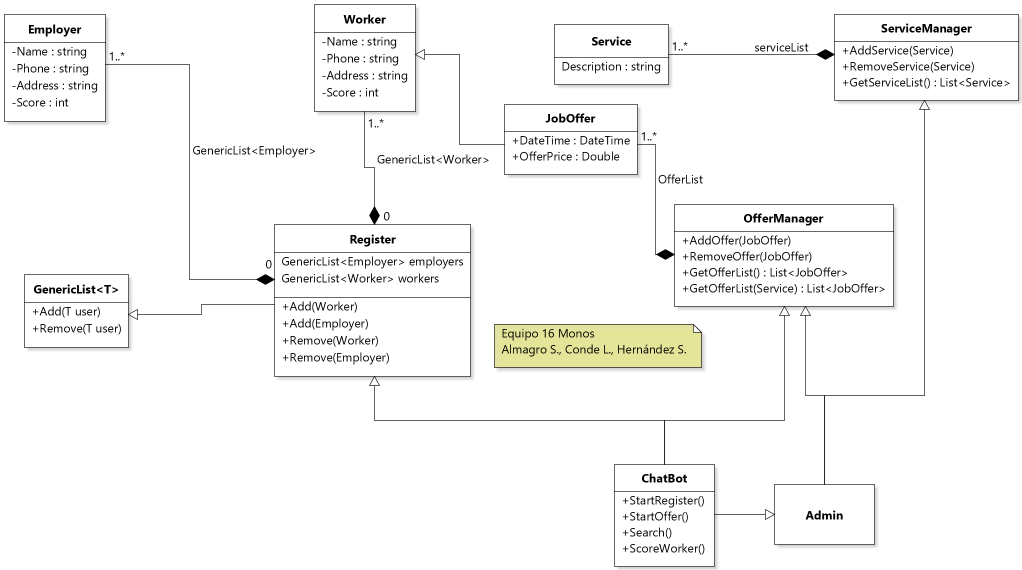
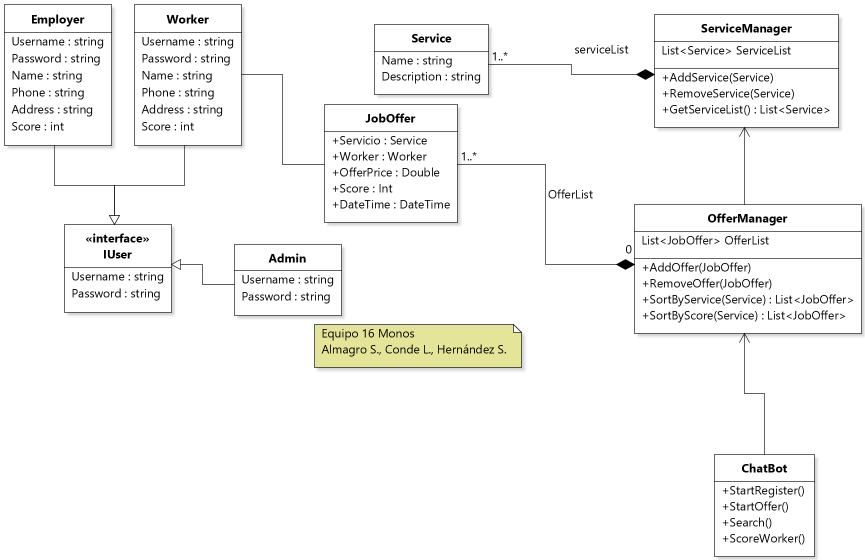
Translated to English

diff --git a/Library/Services/OfferManager.cs b/Library/Services/OfferManager.cs
@@ -1,31 +1,43 @@
 using System;
+using System.Collections;
 using System.Collections.Generic;
 using System.Linq;
+
 namespace Proyecto
 
 {
-    class OfferManager{
+    class OfferManager
+    {
+        private IList OfferList = new List<JobOffer>(); 
 
-        string Servicio {get; set;}
-        Worker Trabajador {get;}
-
-        Double Costos{get;}
-
-        
-        public static List<JobOffer> Sort_Score(ServiceManager lista){
-            List<JobOffer> x=lista.Lista;
-            List<JobOffer> sorted= x.OrderBy(x => x.Trabajador.Score).ToList();
-            return sorted;
+        public void AddOffer(JobOffer jobOffer)
+        {
+            this.OfferList.Add(jobOffer);
         }
-        public static List<JobOffer> Find(ServiceManager lista,string categoria){
-            List<JobOffer> w= new List<JobOffer>();
-            List<JobOffer> x=lista.Lista;
-            foreach (JobOffer i in x){
-                if (i.Servicio==categoria){
-                    w.Add(i);
+        public void RemoveOffer(JobOffer jobOffer)
+        {
+            this.OfferList.Remove(jobOffer);
+        }
+
+        public List<JobOffer> SortByService(Service service)
+        {
+            List<JobOffer> result = new List<JobOffer>();
+            foreach(JobOffer joboffer in OfferList)
+            {
+                if(joboffer.Equals(service))
+                {
+                    result.Add(joboffer);
                 }
             }
-            return(w);
+            return result;
+        }
+
+        public List<JobOffer> SortByScore(Service service)
+        {
+            List<JobOffer> result = new List<JobOffer>();
+            result = SortByService(service);
+            result = result.OrderBy(result => result.Score).ToList();
+            return result;
         }
     }
 }

diff --git a/Library/Services/ServiceManager.cs b/Library/Services/ServiceManager.cs
@@ -1,23 +1,28 @@
 using System;
-using System.Collections.Generic;
+using System.Collections;
 namespace Proyecto
 
 {
     class ServiceManager{
 
-        public List<JobOffer> Lista {get;}
-        
-        public ServiceManager(){
-            this.Lista= new List<JobOffer>();
+        private IList ServiceList = new List<Service>();
+
+        public void AddService(string name, string description)
+        {
+            this.ServiceList.Add(new Service(name, description));
         }
-        public void Add_Service(JobOffer joboffer){
-            this.Lista.Add(joboffer);
+        public void RemoveService(Service service)
+        {
+            this.ServiceList.Remove(service);
         }
-        public void Remove_Service(JobOffer joboffer){
-            if(this.Lista.Contains(joboffer)){
-            this.Lista.Remove(joboffer);
+        public IList GetServiceList()
+        {
+            IList result = new ArrayList();
+            foreach (Service service in this.ServiceList)
+            {
+                result.Add(service);
             }
-        
+            return result;
         }
     }
 }

diff --git a/Library/Services/JobOffer.cs b/Library/Services/JobOffer.cs
@@ -1,21 +1,25 @@
 using System;
 using System.Collections.Generic;
+using System.Collections;
 namespace Proyecto
 
 {
-    class JobOffer{
+    class JobOffer
+    {
 
-        public string Servicio {get; set;}
-        public Worker Trabajador {get;}
-
-        Double Costos{get;}
+        public Service Service {get; set;}
+        public Worker Worker {get;}
+        public Double OfferPrice{get;}
+        public int Score {get;}
+        private DateTime DateTime;
 
         
-        public JobOffer(string categoria, Worker trabajador, Double costos){
-            this.Servicio= categoria;            
-            this.Trabajador= trabajador;
-            this.Costos= costos;
-
+        public JobOffer(Service service, Worker worker, Double offerprice)
+        {
+            this.Service = service;            
+            this.Worker = worker;
+            this.OfferPrice = offerprice;
+            this.Score = worker.Score; //El score de la JobOffer va a ser igual al score del Worker que oferta
         }
         
     }

diff --git a/Library/Register/User.cs b/Library/Register/User.cs
@@ -4,12 +4,13 @@ using System.Diagnostics.CodeAnalysis;
 
 namespace Proyecto;
 
-public class Register : IEnumerable
+public class User : IEnumerable
 {
     /* Creo dos GenericList: uno para alojar a los Employer y otro para alojar a los Worker
         La idea es poder alojar ambos en la misma clase Register*/
-    private GenericList<Employer> employers = new GenericList<Employer>(); //ESTO ES UN ATRIBUTO PARA LA UML
-    private GenericList<Worker> workers = new GenericList<Worker>(); //ATRIBUTO
+    private UserManager<Employer> employers = new UserManager<Employer>(); //ESTO ES UN ATRIBUTO PARA LA UML
+    private UserManager<Worker> workers = new UserManager<Worker>();
+    private UserManager<Admin> admins = new UserManager<Admin>(); //ATRIBUTO
 
     public void Add(Employer employer)              //Agrego los objetos Employer a la GenericList de Employers
         {

diff --git a/Library/Register/Worker.cs b/Library/Register/Worker.cs
@@ -1,16 +1,21 @@
 using System;
+using System.Collections;
 
 namespace Proyecto;
 
-public class Worker
+public class Worker : IUser
 {
-    public string Name {get;}          //Guardo los datos del Worker con un Getter
+    public string Username {get;}
+    public string Password {get;}
+    public string Name {get;}
     public string Phone {get;}
     public string Address {get;}
     public int Score {get;}
 
-    public Worker(string name, string phone, string address) //Constructor de la clase
+    public Worker(string username, string password, string name, string phone, string address)
     {
+        this.Username = username;
+        this.Password = password;
         this.Name = name;
         this.Phone = phone;
         this.Address = address;

diff --git a/Library/Register/Employer.cs b/Library/Register/Employer.cs
@@ -2,15 +2,19 @@ using System;
 
 namespace Proyecto;
 
-public class Employer
+public class Employer : IUser
 {
+    public string Username {get;}
+    public string Password {get;}
     public string Name {get;}
     public string Phone {get;}
     public string Address {get;}
     public int Score {get;}
 
-    public Employer(string name, string phone, string address)
+    public Employer(string username, string password, string name, string phone, string address)
     {
+        this.Username = username;
+        this.Password = password;
         this.Name = name;
         this.Phone = phone;
         this.Address = address;

diff --git a/Library/Register/Admin.cs b/Library/Register/Admin.cs
@@ -1,0 +1,27 @@
+using System;
+
+namespace Proyecto;
+
+public class Admin : IUser
+{
+    public string Username {get;}
+    public string Password {get;}
+
+    public Admin(string username, string password)
+    {
+        this.Username = username;
+        this.Password = password;
+    }
+    public void CreateService(string name, string description)
+    {
+
+    }
+    public void RemoveService(string name, string description)
+    {
+        
+    }
+    public void RemoveOffer(string name, string description)
+    {
+        
+    }
+}

diff --git a/Library/Register/UserManager.cs b/Library/Register/UserManager.cs
@@ -2,7 +2,7 @@ using System.Collections.Generic;
 
 namespace Proyecto;
 
-public class GenericList<T>                                 //Creo una GenericList para guardar Worker y Employer en Register
+public class UserManager<T>                                 //Creo una GenericList para guardar Worker y Employer en Register
 {
     private IList<T> RegisterList = new List<T>();
         public void Add(T user)                             //Un método para agregar objetos a la lista

diff --git a/Library/Services/Service.cs b/Library/Services/Service.cs
@@ -1,0 +1,16 @@
+using System;
+using System.Collections.Generic;
+namespace Proyecto
+
+{
+    class Service{
+        public string Name {get; set;}
+        public string Description {get; set;}
+        
+        public Service(string nombre, string description)
+        {
+            this.Name = nombre;
+            this.Description = description;
+        }
+    }
+}

diff --git a/Program.cs b/Program.cs
@@ -1,1 +1,9 @@
 namespace Proyecto;
+
+class Program
+{
+    static void Main()
+        {
+            ServiceManager SManager = new ServiceManager();
+        }
+}

diff --git a/Library/Register/IUser.cs b/Library/Register/IUser.cs
@@ -1,0 +1,9 @@
+using System;
+
+namespace Proyecto;
+
+public interface IUser
+{
+    public string Username {get;}
+    public string Password {get;}
+}
